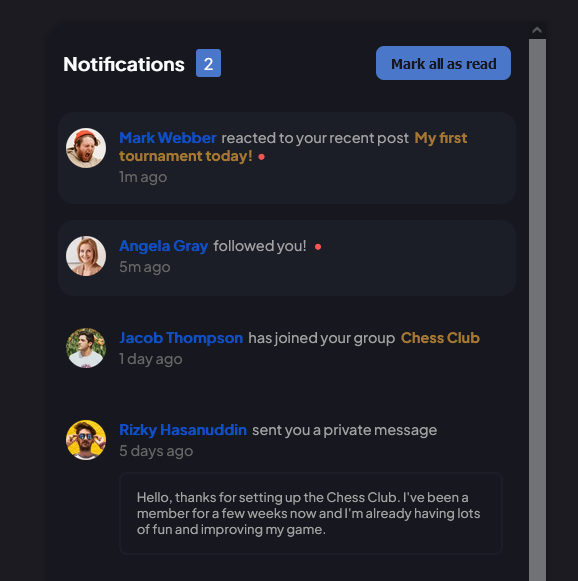
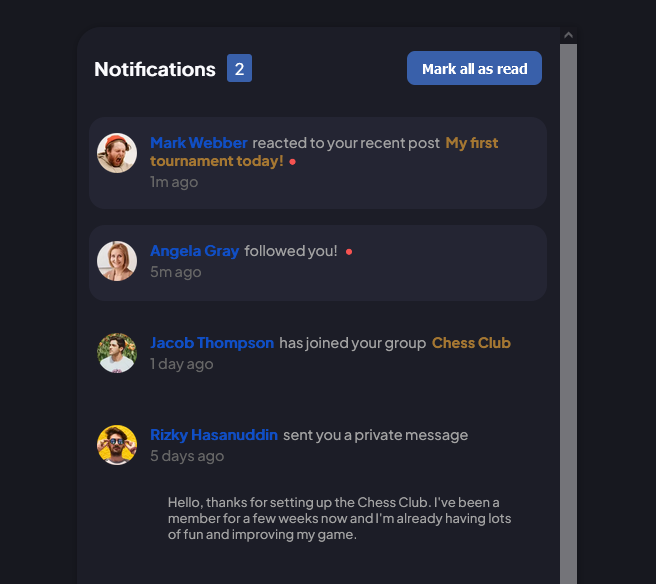
14-09 7/7/23

diff --git a/index.css b/index.css
@@ -2,10 +2,10 @@
   --red: hsl(1, 90%, 64%);
   --blue: hsl(219, 85%, 26%);
 
-  --clr-dark-primary-200: #4a77ca;
+  --clr-dark-primary-200: #3960aa;
   --clr-dark-primary-400: #104fc7;
-  --clr-dark-primary-600: #222a38;
-  --clr-dark-primary-700: #20223075;
+  --clr-dark-primary-600: #242533;
+  --clr-dark-primary-700: #1c1d27;
   --clr-dark-primary-800: #17181f;
   --clr-dark-secondary: #a57732;
   --clr-dark-secondary-dark: #4d391b;
@@ -145,7 +145,7 @@ button {
   }
   .btn-MAAR-unread {
     background-color: var(--clr-dark-primary-200);
-    color: var(--clr-dark-primary-800);
+    color: var(--clr-dark-neutral-10);
     padding: .6em 1em;
     border-radius: 8px;
     transition: background-color .2s ease-in-out, color .2s ease-in-out;
@@ -291,6 +291,6 @@ p[id="time"] {
 
 @media (prefers-color-scheme: dark) {
   .unread {
-    background-color: var(--clr-dark-primary-700);
+    background-color: var(--clr-dark-primary-600);
   }
 }
